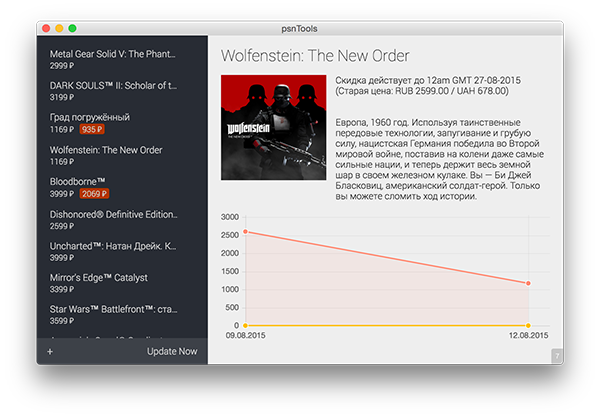
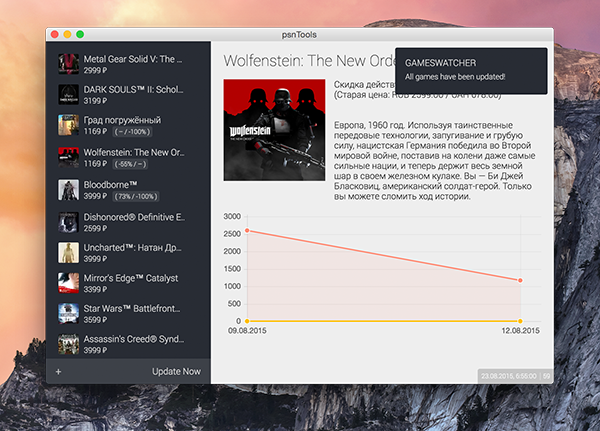
Updated Readme & screenshots

diff --git a/README.md b/README.md
@@ -1,4 +1,4 @@
-# psnTools
+# psnTools v.2.0
 
 Desktop application for tracking prices in PSN.
 
